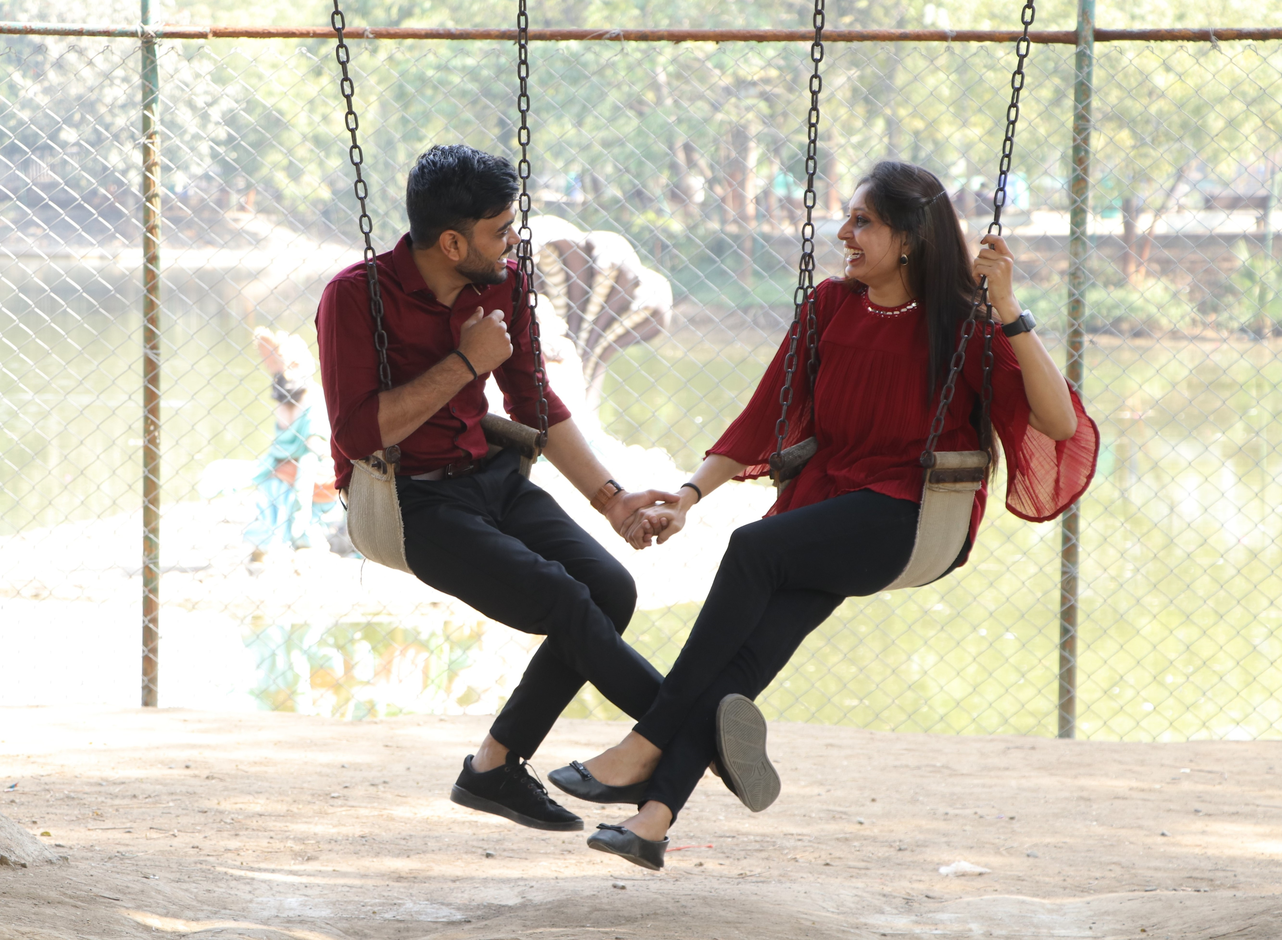
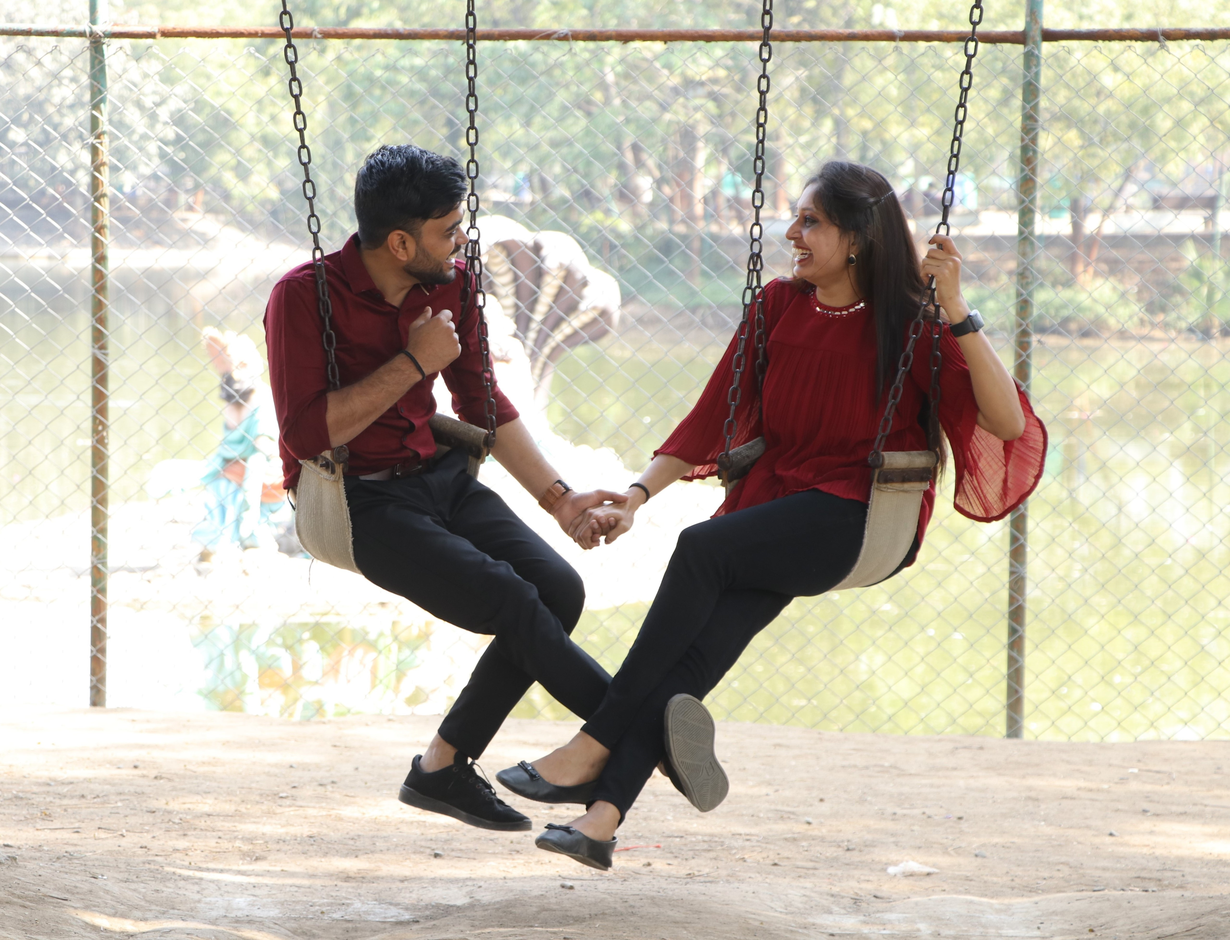
imageeee

diff --git a/src/After_before.js b/src/After_before.js
@@ -10,7 +10,7 @@ function After_before() {
                                              <img src={require('./images/after.jpg')} alt=""></img>
                                         </div>
                                         <div className="box_img2">
-                                             <img src={require('./images/after.3.jpg')} alt=""></img>
+                                             <img src={require('./images/after.3 (2).JPG')} alt=""></img>
                                         </div>
                                    </div>
                               </div>

diff --git a/src/Count.js b/src/Count.js
@@ -16,7 +16,7 @@ const Count = () => {
                               style={{
                                    width: '100%',
                                    fontSize: '60px',
-                                   color: '#fff',
+                                   // color: '#f2edd1',
                                    padding: '',
                                    display: 'flex',
                                    justifyContent: 'center',

diff --git a/src/App.css b/src/App.css
@@ -186,8 +186,7 @@ video {
   color: rgb(223, 223, 223);
 }
 
-.count_image h2,
-.days,
+.count_image h2, .days,
 span {
   color: rgb(223, 223, 223);
 }
